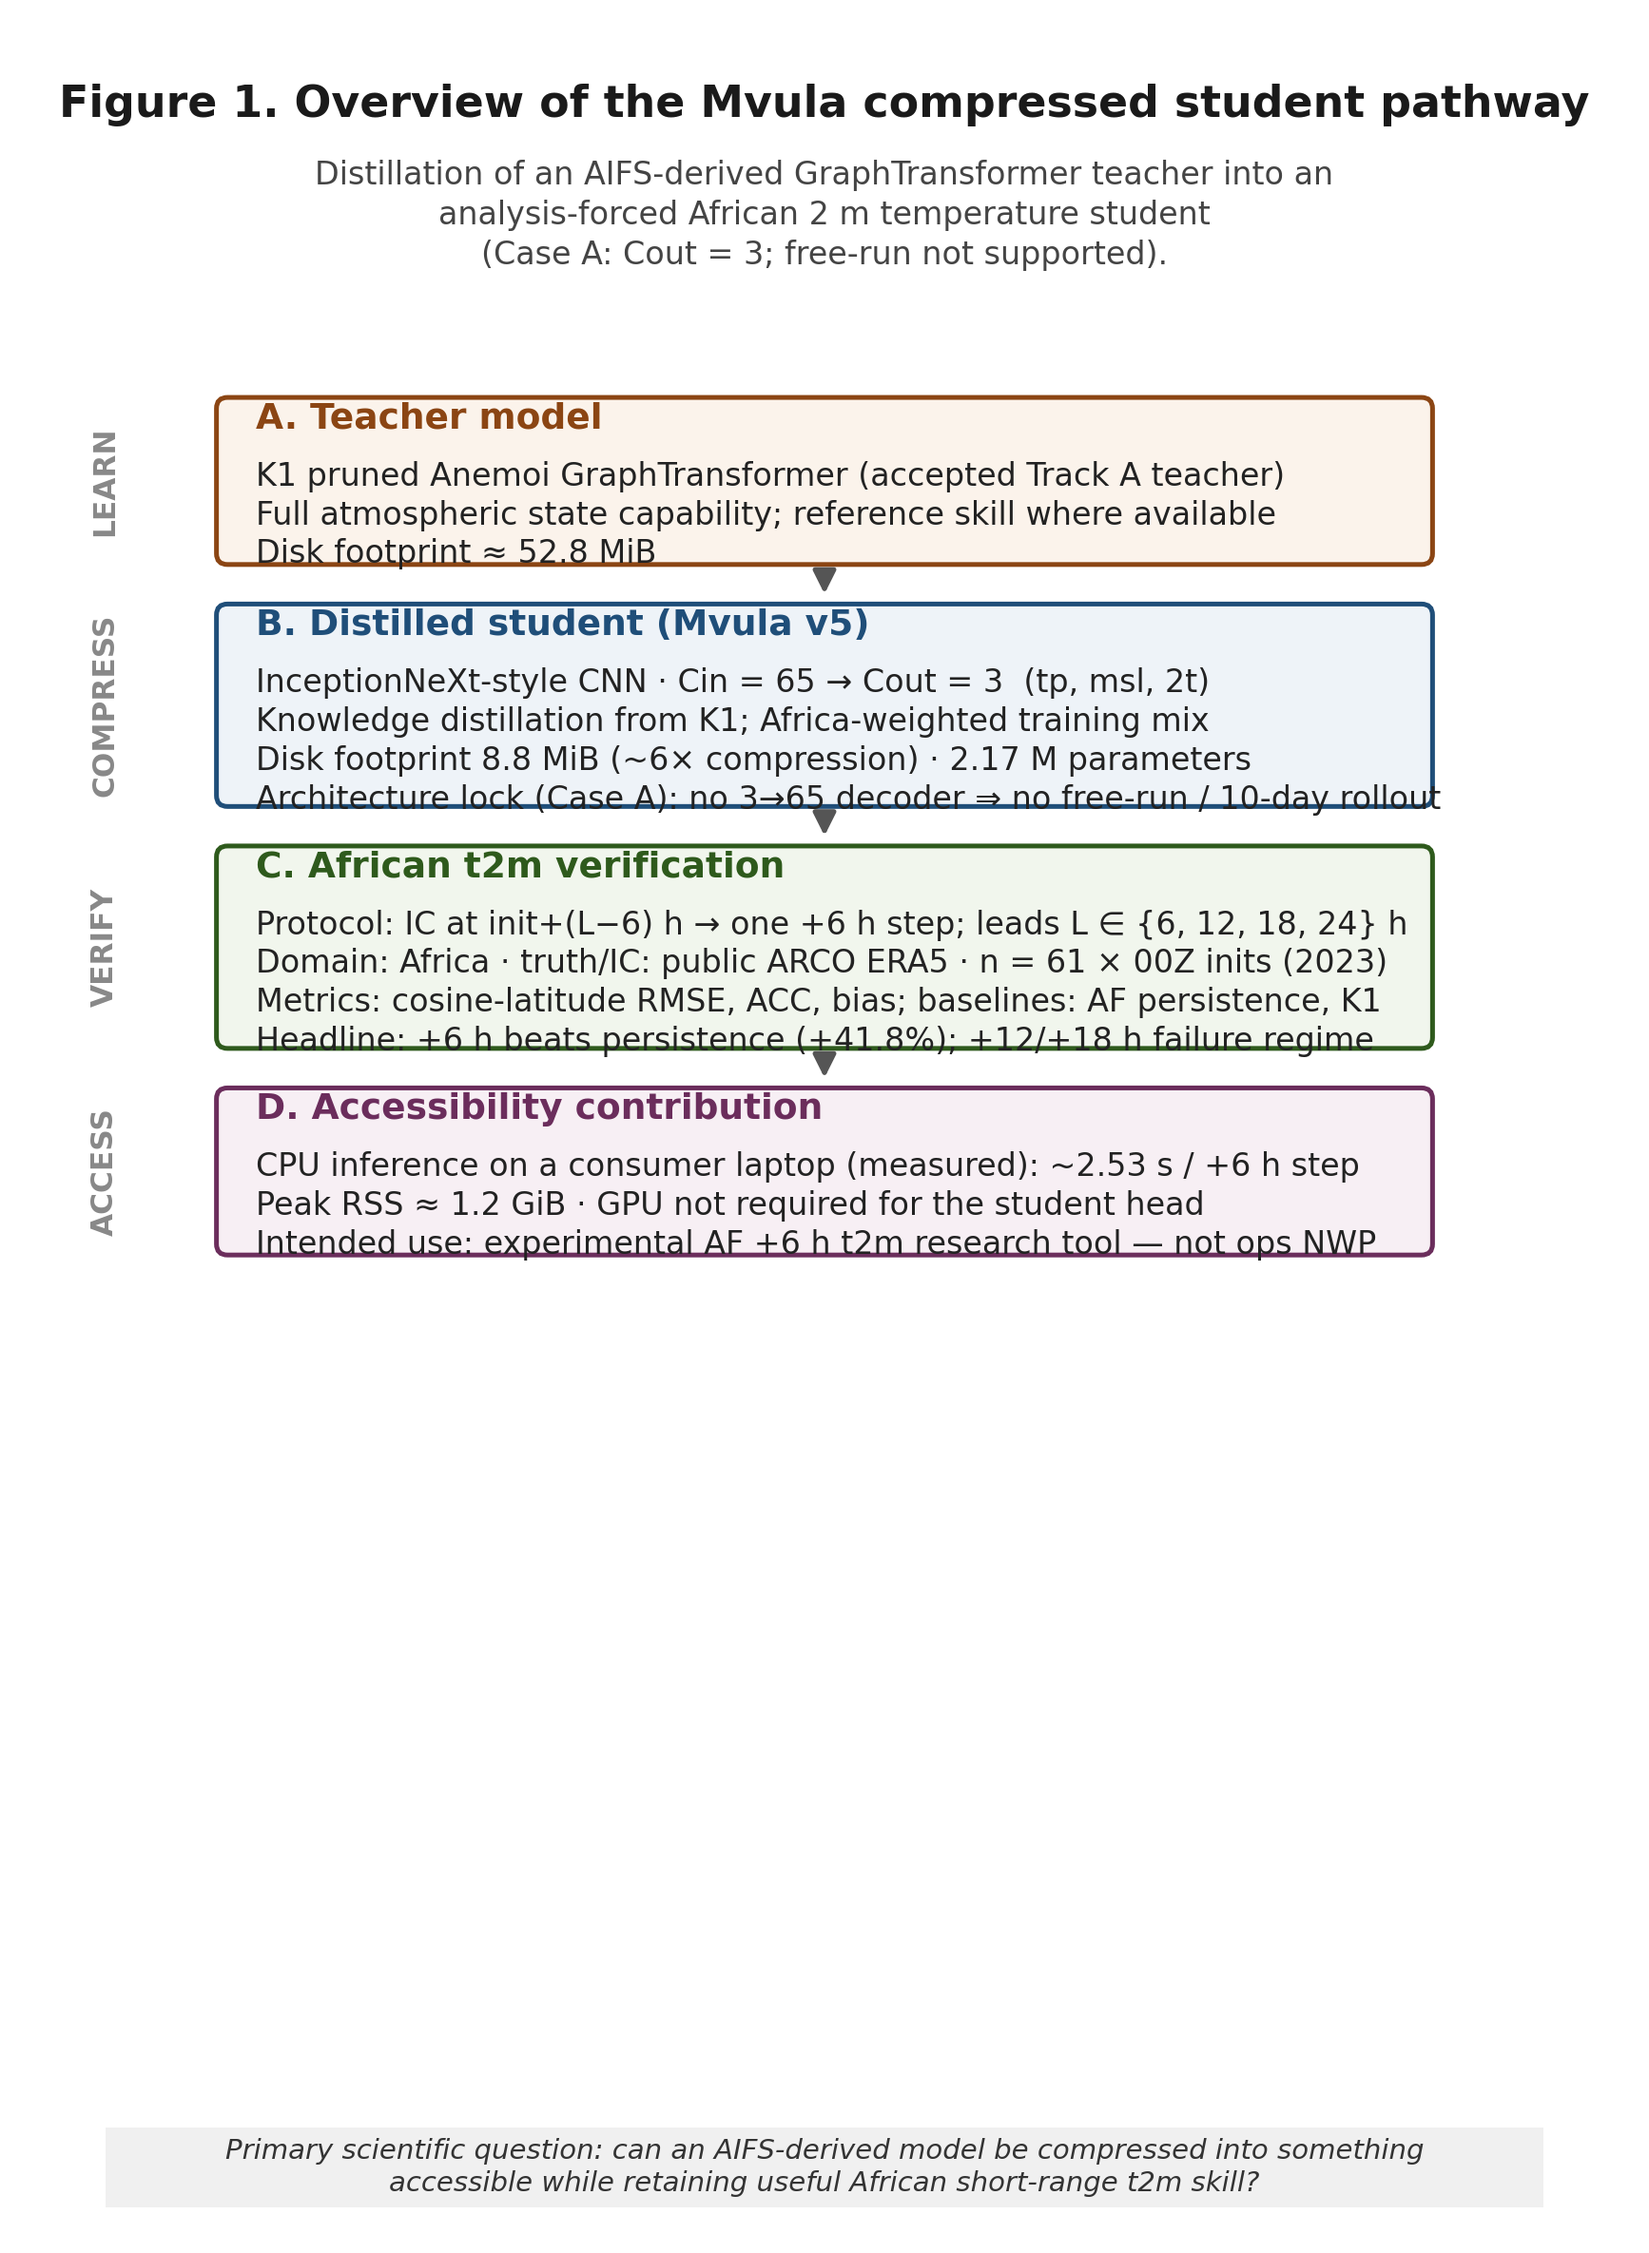
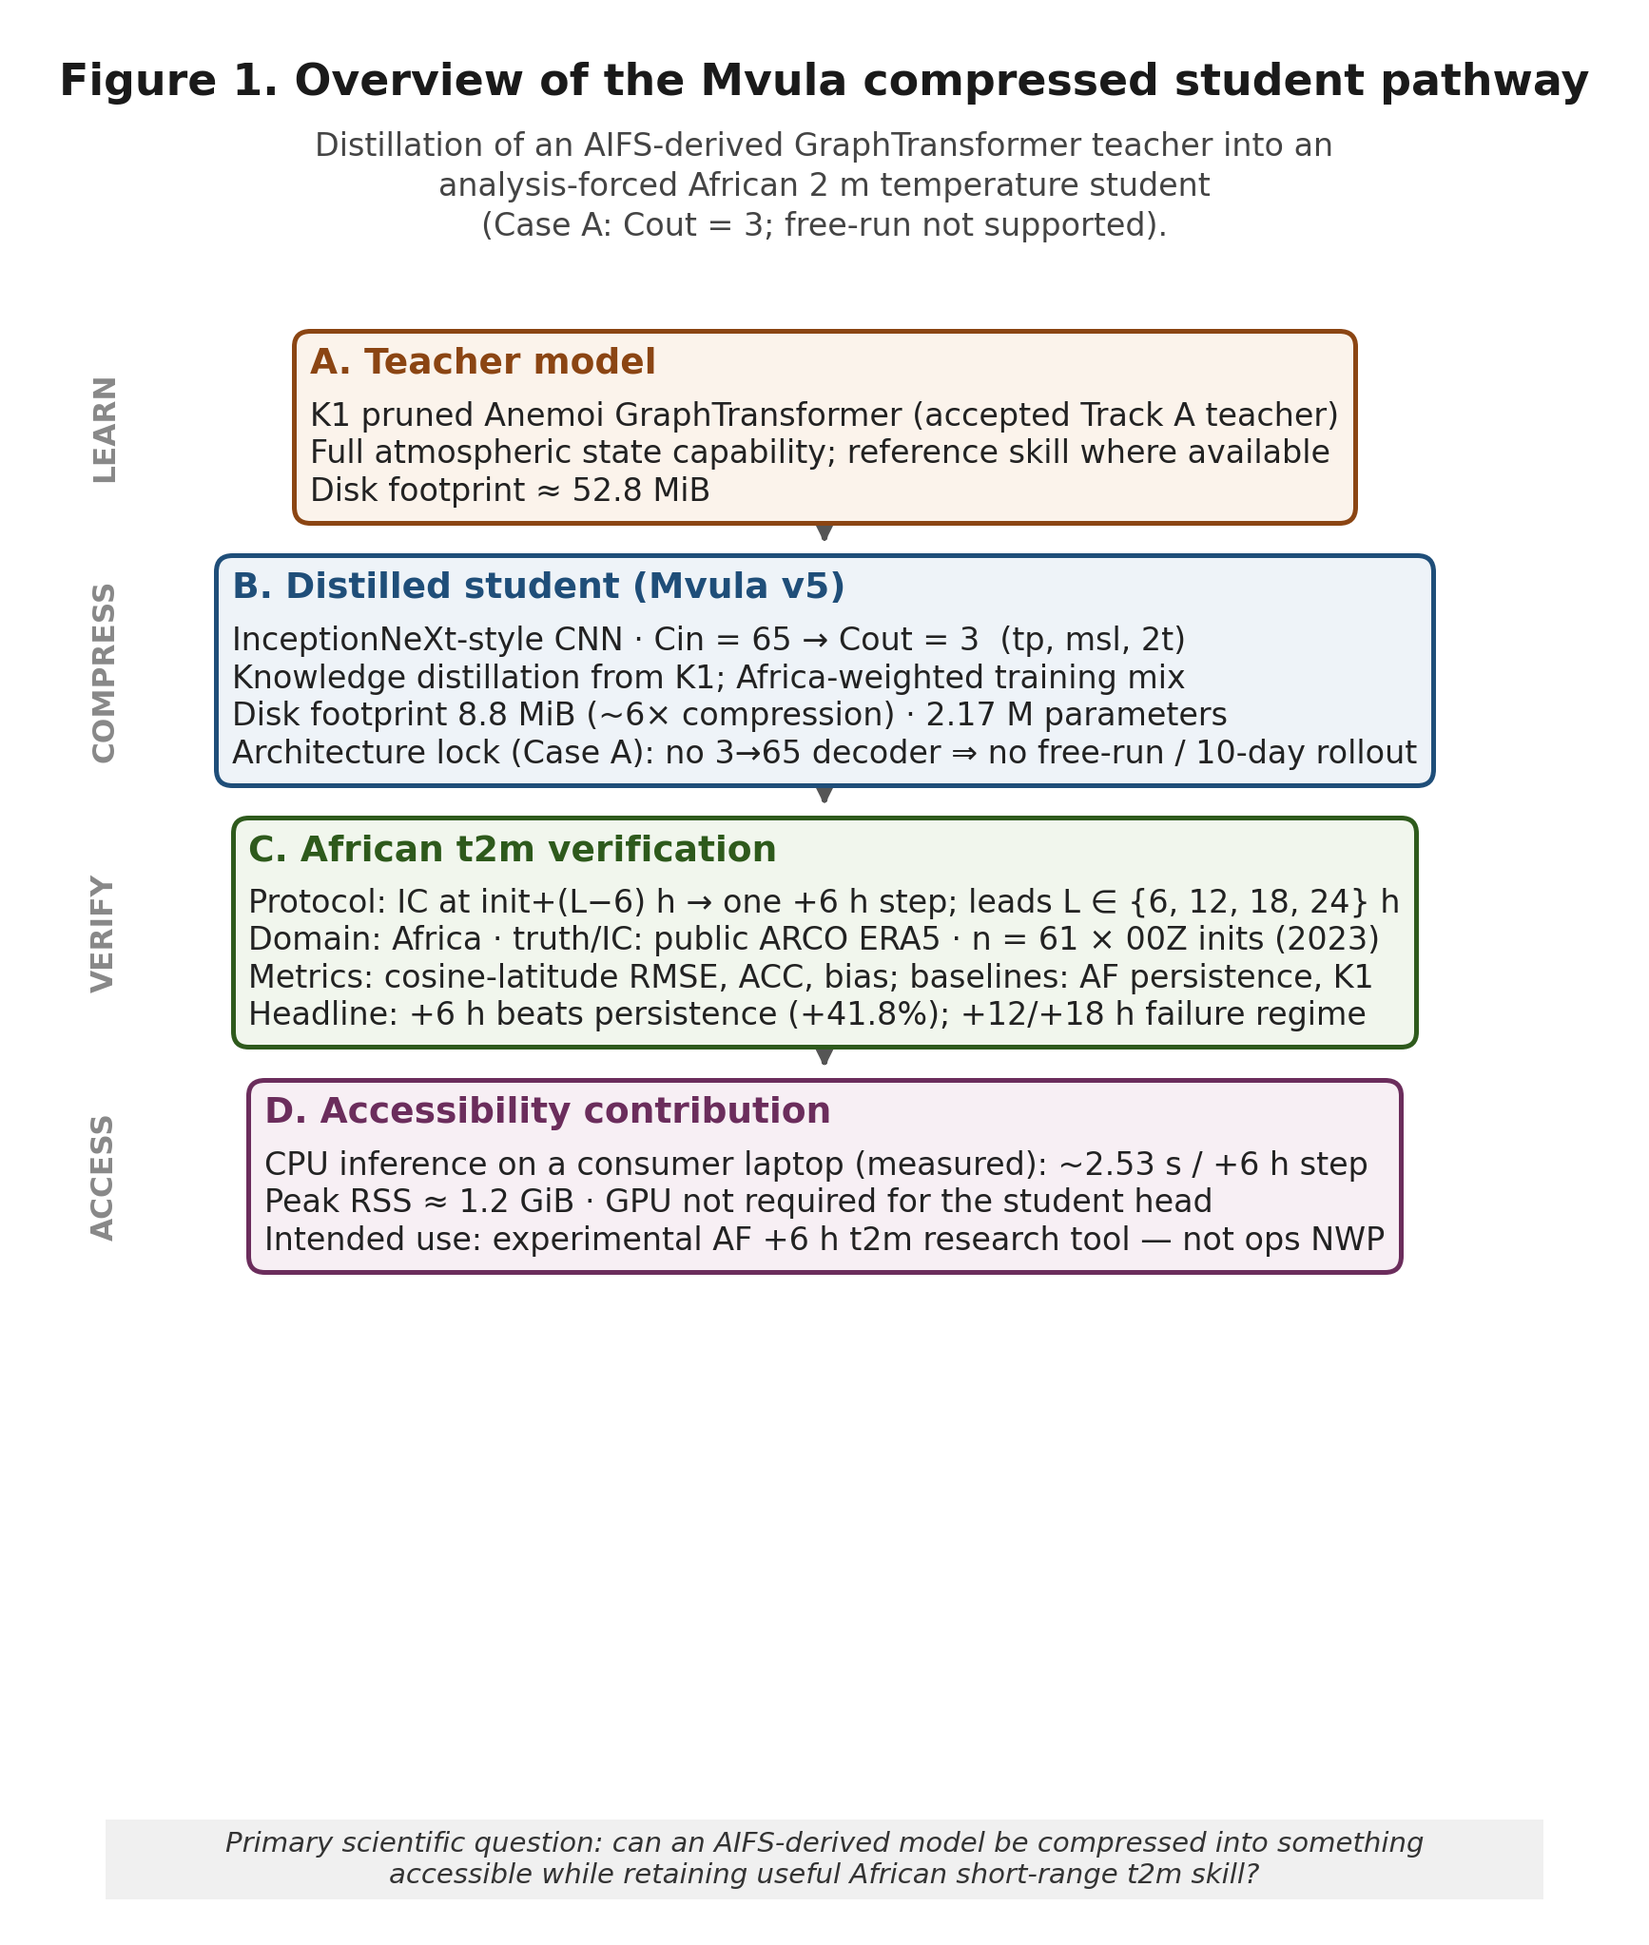
Use framed AnnotationBbox panels for Fig.1 and enlarge pathway arrows.
EOF

diff --git a/scripts/plot_mvula_report_fig02_fig03.py b/scripts/plot_mvula_report_fig02_fig03.py
@@ -168,21 +168,23 @@ def fig1_pipeline() -> None:
 
 
 def fig1_pipeline_publication() -> None:
-    """Journal-style vertical pathway (Learn → Verify → Accessibility).
+    """Journal-style vertical pathway (Learn → Compress → Verify → Access).
 
-    Place text → measure glyphs → draw a box that hugs the text (no empty
-    interior space below the last line).
+    Each panel is a framed AnnotationBbox so the border pad is applied by
+    matplotlib symmetrically around the packed title+body (no empty interior
+    below the last line from mismatched FancyBbox heights).
     """
-    from matplotlib.patches import FancyArrowPatch, FancyBboxPatch, Rectangle
+    from matplotlib.offsetbox import AnnotationBbox, TextArea, VPacker
+    from matplotlib.patches import FancyArrowPatch, Rectangle
 
-    fig, ax = plt.subplots(figsize=(7.2, 10.0))
+    fig, ax = plt.subplots(figsize=(7.2, 8.6), dpi=300)
     ax.set_xlim(0, 7.2)
-    ax.set_ylim(0, 10.0)
+    ax.set_ylim(0, 8.6)
     ax.axis("off")
 
     ax.text(
         3.6,
-        9.65,
+        8.35,
         "Figure 1. Overview of the Mvula compressed student pathway",
         ha="center",
         va="center",
@@ -192,7 +194,7 @@ def fig1_pipeline_publication() -> None:
     )
     ax.text(
         3.6,
-        9.15,
+        7.88,
         "Distillation of an AIFS-derived GraphTransformer teacher into an\n"
         "analysis-forced African 2 m temperature student\n"
         "(Case A: Cout = 3; free-run not supported).",
@@ -252,66 +254,52 @@ def fig1_pipeline_publication() -> None:
         ),
     ]
 
-    x0, box_w = 0.85, 5.5
-    text_x = x0 + 0.18
-    pad = 0.02
-    title_body_gap = 0.10
-    arrow_gap = 0.20
-
-    fig.canvas.draw()
-    renderer = fig.canvas.get_renderer()
+    y_cursor = 7.15
+    prev_box_bot = None
     inv = ax.transData.inverted()
 
-    y_cursor = 8.30
-    prev_box_bot = None
-
     for phase, title, lines, edge, face in specs:
-        t_artist = ax.text(
-            text_x,
-            y_cursor,
+        title_ta = TextArea(
             title,
-            ha="left",
-            va="top",
-            fontsize=9,
-            fontweight="bold",
-            color=edge,
-            zorder=3,
+            textprops={
+                "color": edge,
+                "fontsize": 9,
+                "fontweight": "bold",
+                "fontfamily": "sans-serif",
+            },
         )
-        fig.canvas.draw()
-        tb = t_artist.get_window_extent(renderer=renderer).transformed(inv)
-
-        b_artist = ax.text(
-            text_x,
-            tb.y0 - title_body_gap,
+        body_ta = TextArea(
             "\n".join(lines),
-            ha="left",
-            va="top",
-            fontsize=8,
-            color="#222222",
-            linespacing=1.3,
-            zorder=3,
+            textprops={
+                "color": "#222222",
+                "fontsize": 8,
+                "fontfamily": "sans-serif",
+                "linespacing": 1.25,
+            },
         )
+        pack = VPacker(children=[title_ta, body_ta], align="left", pad=0, sep=5)
+        ab = AnnotationBbox(
+            pack,
+            (3.6, y_cursor),
+            xycoords="data",
+            box_alignment=(0.5, 1.0),
+            frameon=True,
+            pad=0.45,
+            bboxprops={
+                "boxstyle": "round,pad=0.4",
+                "linewidth": 1.2,
+                "edgecolor": edge,
+                "facecolor": face,
+            },
+            zorder=2,
+        )
+        ax.add_artist(ab)
         fig.canvas.draw()
-        bb = b_artist.get_window_extent(renderer=renderer).transformed(inv)
-
-        box_top = max(tb.y1, bb.y1) + pad
-        box_bot = min(tb.y0, bb.y0) - pad
-        ax.add_patch(
-            FancyBboxPatch(
-                (x0, box_bot),
-                box_w,
-                box_top - box_bot,
-                boxstyle="round,pad=0.0,rounding_size=0.05",
-                linewidth=1.2,
-                edgecolor=edge,
-                facecolor=face,
-                zorder=1,
-            )
-        )
+        bb = ab.get_window_extent(renderer=fig.canvas.get_renderer()).transformed(inv)
 
         ax.text(
             0.28,
-            (box_top + box_bot) / 2,
+            (bb.y0 + bb.y1) / 2,
             phase,
             ha="left",
             va="center",
@@ -325,18 +313,18 @@ def fig1_pipeline_publication() -> None:
         if prev_box_bot is not None:
             ax.add_patch(
                 FancyArrowPatch(
-                    (3.6, prev_box_bot - 0.01),
-                    (3.6, box_top + 0.01),
+                    (3.6, prev_box_bot - 0.02),
+                    (3.6, bb.y1 + 0.02),
                     arrowstyle="-|>",
-                    mutation_scale=12,
-                    linewidth=1.2,
+                    mutation_scale=18,
+                    linewidth=1.5,
                     color="#555555",
-                    zorder=2,
+                    zorder=1,
                 )
             )
 
-        prev_box_bot = box_bot
-        y_cursor = box_bot - arrow_gap
+        prev_box_bot = bb.y0
+        y_cursor = bb.y0 - 0.22
 
     ax.add_patch(Rectangle((0.35, 0.08), 6.5, 0.36, facecolor="#f0f0f0", edgecolor="none", zorder=0))
     ax.text(
